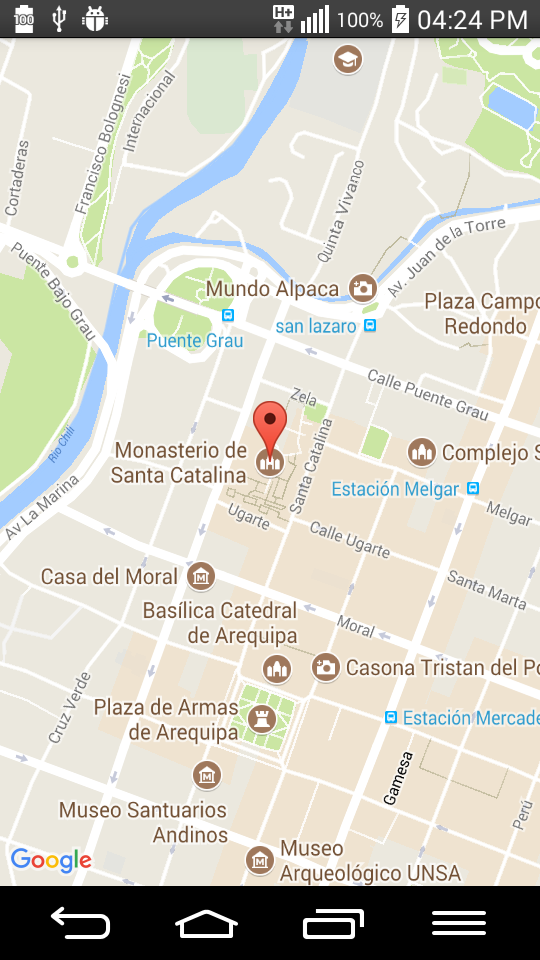
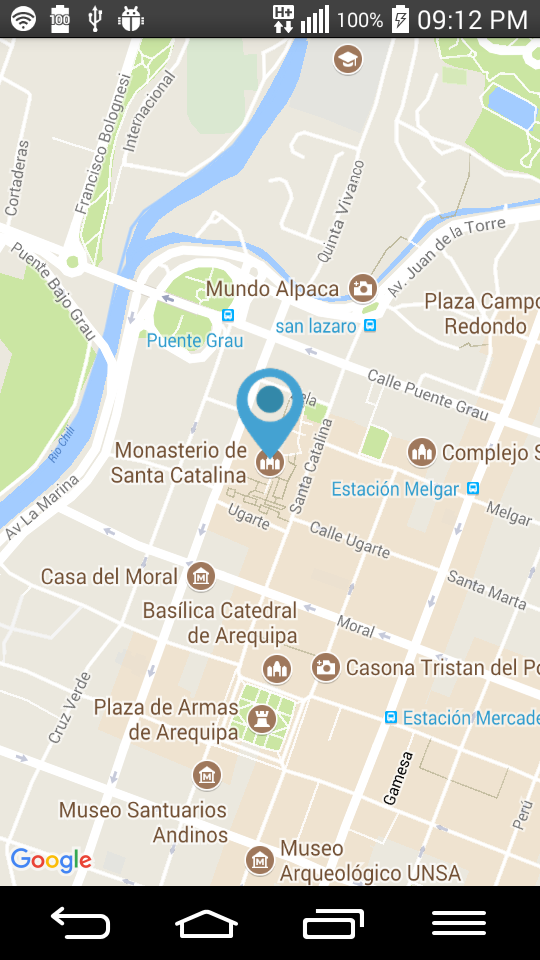
Markers

diff --git a/app/src/main/java/apps/cursos/com/integrandomapas/MapsActivity.java b/app/src/main/java/apps/cursos/com/integrandomapas/MapsActivity.java
@@ -7,6 +7,7 @@ import com.google.android.gms.maps.CameraUpdateFactory;
 import com.google.android.gms.maps.GoogleMap;
 import com.google.android.gms.maps.OnMapReadyCallback;
 import com.google.android.gms.maps.SupportMapFragment;
+import com.google.android.gms.maps.model.BitmapDescriptorFactory;
 import com.google.android.gms.maps.model.LatLng;
 import com.google.android.gms.maps.model.MarkerOptions;
 
@@ -45,27 +46,32 @@ public class MapsActivity extends FragmentActivity implements OnMapReadyCallback
     public void onMapReady(GoogleMap googleMap) {
         mMap = googleMap;
 
+
         // Add a marker in Sydney and move the camera
 
         switch (idLugar){
             case 1:
                 LatLng catedral = new LatLng(-16.3988084,-71.5369056);
-                mMap.addMarker(new MarkerOptions().position(catedral).title(getString(R.string.str_catedral)));
+                mMap.addMarker(new MarkerOptions().position(catedral).title(getString(R.string.str_catedral)).
+                        icon(BitmapDescriptorFactory.fromResource(R.drawable.icon_marker)));
                 mMap.moveCamera(CameraUpdateFactory.newLatLngZoom(catedral,16));
                 break;
             case 2:
                 LatLng mirador = new LatLng(-16.3874803,-71.5417448);
-                mMap.addMarker(new MarkerOptions().position(mirador).title(getString(R.string.str_mirador)));
+                mMap.addMarker(new MarkerOptions().position(mirador).title(getString(R.string.str_mirador)).
+                        icon(BitmapDescriptorFactory.fromResource(R.drawable.icon_marker)));
                 mMap.moveCamera(CameraUpdateFactory.newLatLngZoom(mirador,16));
                 break;
             case 3:
                 LatLng monasterio = new LatLng(-16.3952829,-71.5367908);
-                mMap.addMarker(new MarkerOptions().position(monasterio).title(getString(R.string.str_moasterio)));
+                mMap.addMarker(new MarkerOptions().position(monasterio).title(getString(R.string.str_moasterio)).
+                        icon(BitmapDescriptorFactory.fromResource(R.drawable.icon_marker)));
                 mMap.moveCamera(CameraUpdateFactory.newLatLngZoom(monasterio,16));
                 break;
             case 4:
                 LatLng colca = new LatLng(-15.6093293,-72.0896229);
-                mMap.addMarker(new MarkerOptions().position(colca).title(getString(R.string.str_canoncolca)));
+                mMap.addMarker(new MarkerOptions().position(colca).title(getString(R.string.str_canoncolca)).
+                        icon(BitmapDescriptorFactory.fromResource(R.drawable.icon_marker)));
                 mMap.moveCamera(CameraUpdateFactory.newLatLngZoom(colca,16));
                 break;
 
